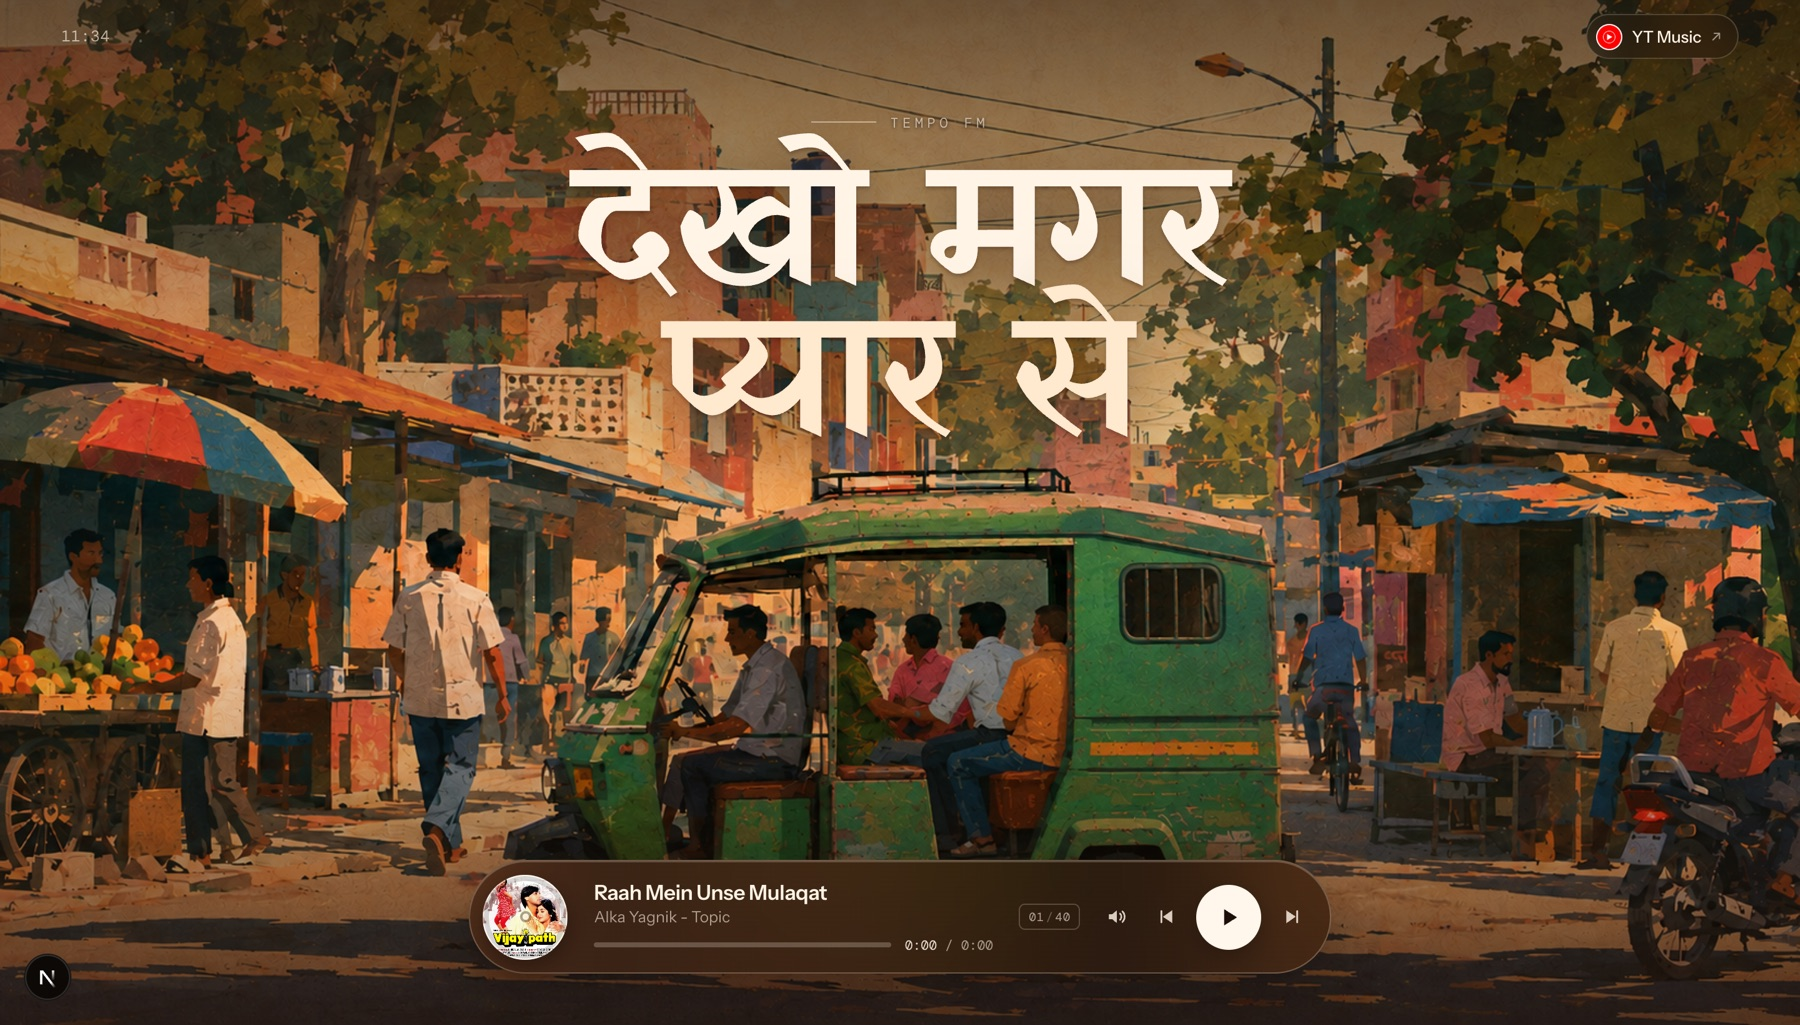
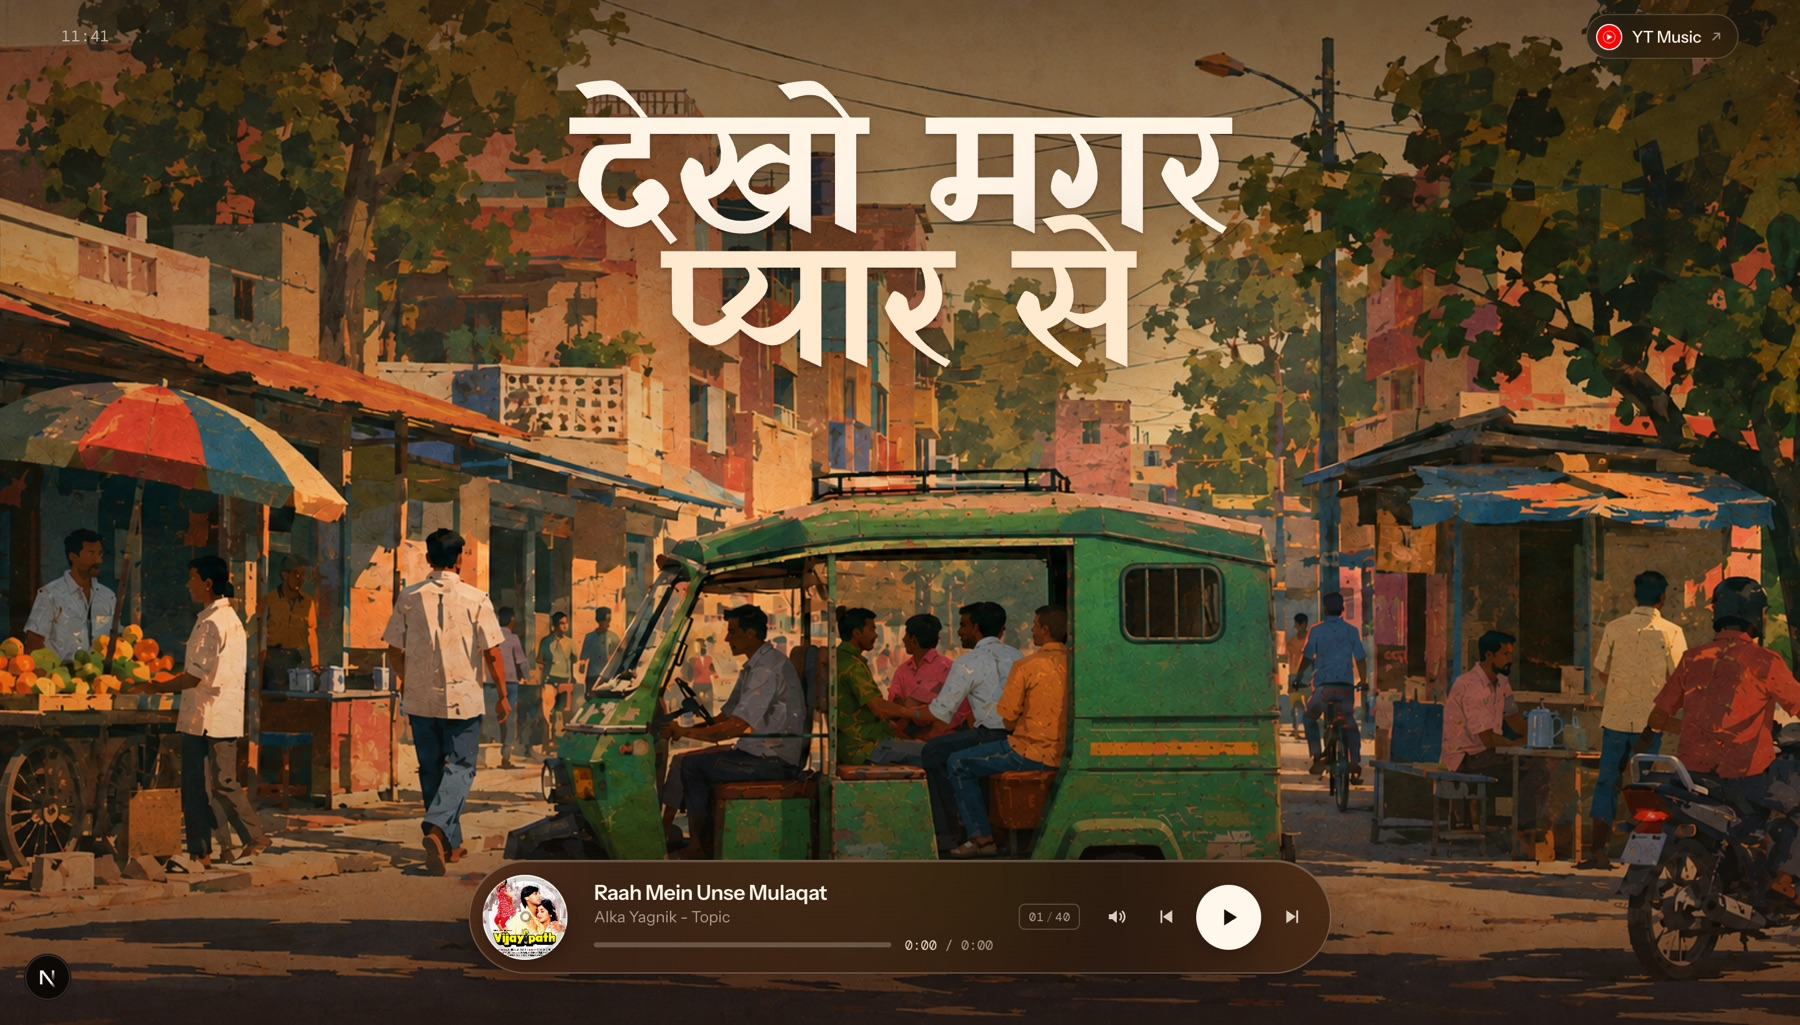
Drop the kicker line, tighten hero leading

Changed region(s): [[0.3111, 0.0624, 0.6844, 0.4371]]

diff --git a/app/globals.css b/app/globals.css
@@ -76,20 +76,6 @@ button { cursor: pointer; }
 /* ---------- player + hero placement ---------- */
 .player-slot { width: min(100%, 690px); margin: auto auto 0; flex: none; }
 .hero-title { margin: clamp(1rem, 4vh, 3rem) 0 0; flex: none; text-align: center; }
-.kicker {
-  display: flex;
-  align-items: center;
-  justify-content: center;
-  gap: .7rem;
-  margin: 0 0 clamp(1rem, 2.6vh, 1.8rem);
-  color: rgba(255, 244, 230, .62);
-  font-family: var(--font-mono), ui-monospace, monospace;
-  font-size: clamp(.6rem, .78vw, .7rem);
-  text-transform: uppercase;
-  letter-spacing: .28em;
-  text-shadow: 0 1px 3px rgba(20, 10, 6, .8);
-}
-.kicker .rule { width: clamp(24px, 4vw, 52px); height: 1px; background: rgba(255, 244, 230, .5); }
 .hero-title h1 {
   display: grid;
   justify-items: center;
@@ -98,7 +84,7 @@ button { cursor: pointer; }
   font-family: var(--font-display), serif;
   font-weight: 400;
   font-size: clamp(3.3rem, 10.2vw, 8.6rem);
-  line-height: .88;
+  line-height: .78;
   letter-spacing: -.005em;
   text-shadow: 0 2px 3px rgba(38, 14, 6, .28), 0 16px 50px rgba(26, 10, 4, .55);
 }
@@ -106,7 +92,6 @@ button { cursor: pointer; }
 
 @media (max-width: 700px) {
   .backdrop-image { background-position: 52% 68%; }
-  .kicker { letter-spacing: .2em; }
 }
 
 @media (prefers-reduced-motion: reduce) {

diff --git a/app/page.tsx b/app/page.tsx
@@ -22,7 +22,6 @@ export default function Home() {
       </header>
 
       <section className="hero-title">
-        <p className="kicker"><span className="rule" aria-hidden="true" />Tempo FM</p>
         <h1>
           <span>देखो मगर</span>
           <span>प्यार से</span>
